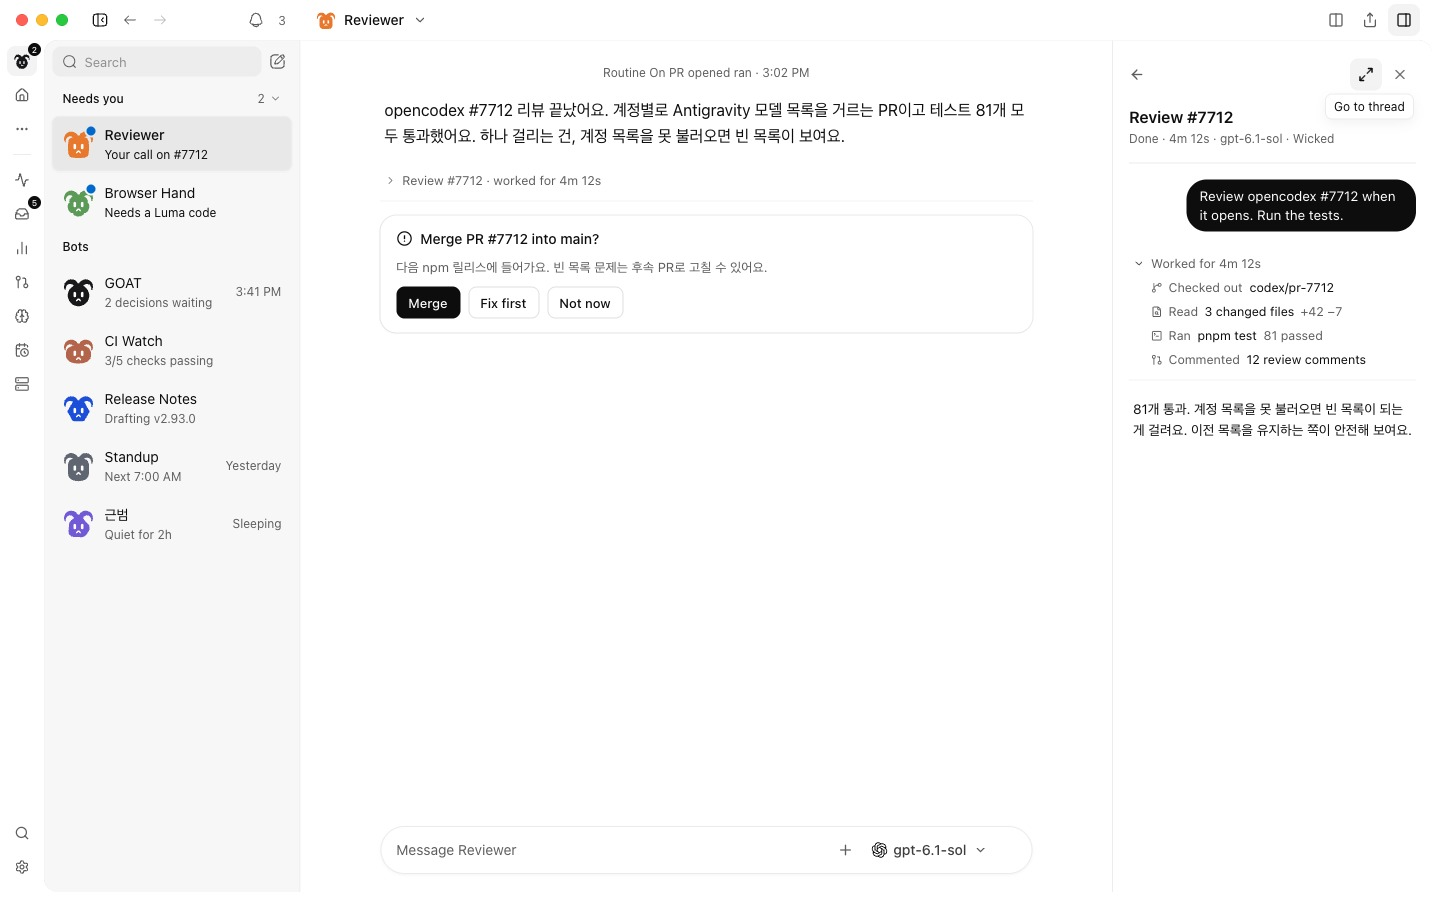
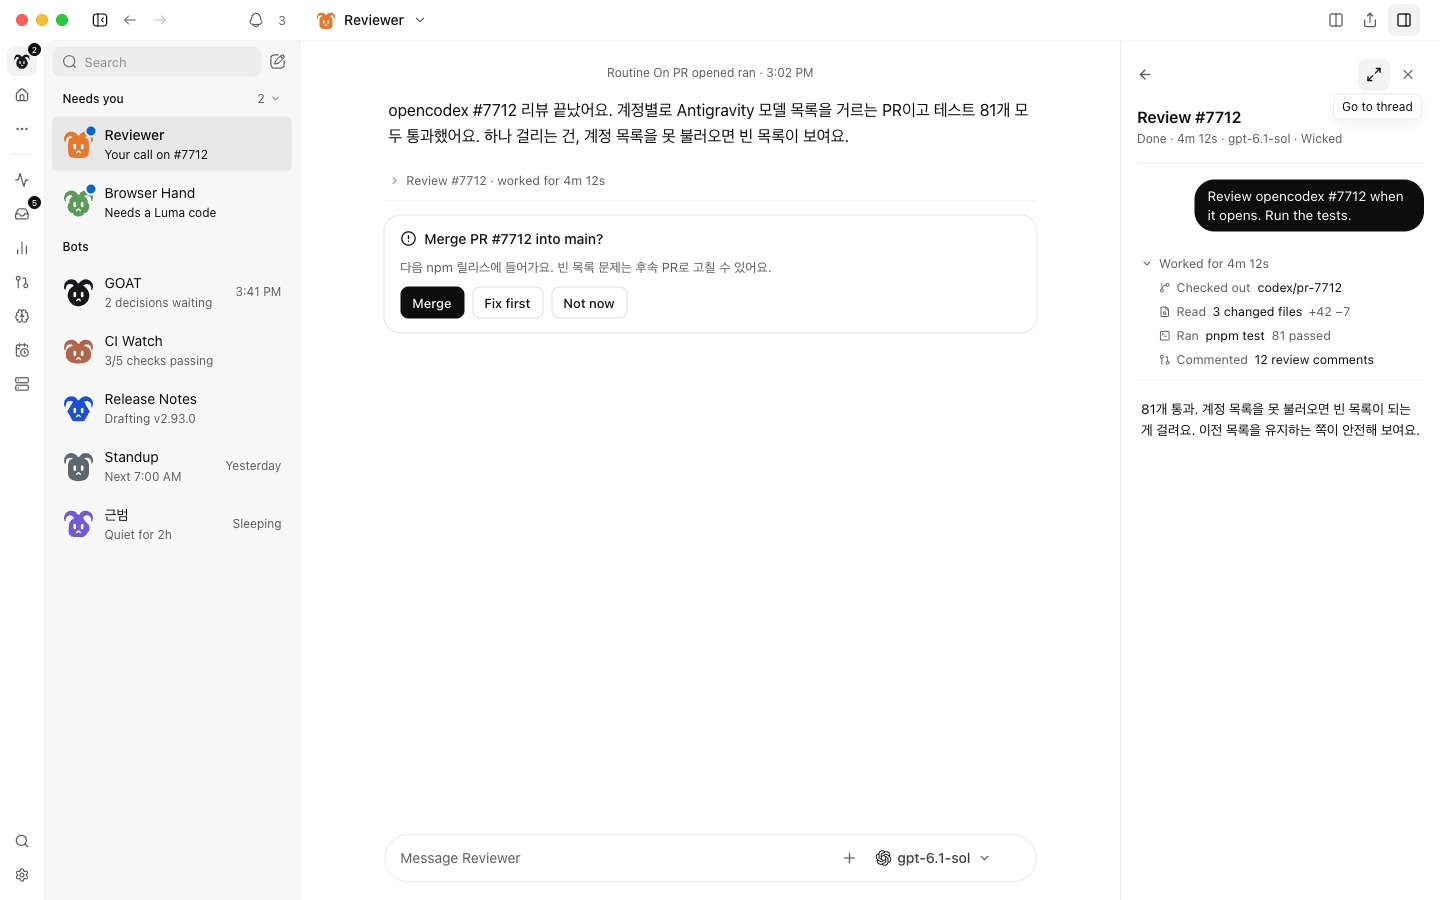
design: workspace flush to window bottom (no inset, top-left radius only); re-export bot home boards

diff --git a/design/paper/part1/1FKW-0.jsx b/design/paper/part1/1FKW-0.jsx
@@ -82,7 +82,7 @@
             </div>
           </div>
         </div>
-        <div style={{ boxSizing: 'border-box', display: 'flex', flexBasis: '0%', flexGrow: '1', minHeight: '0px', paddingBottom: '8px', paddingRight: '8px' }}>
+        <div style={{ boxSizing: 'border-box', display: 'flex', flexBasis: '0%', flexGrow: '1', minHeight: '0px' }}>
           <div style={{ alignItems: 'center', backgroundColor: '#FFFFFF', boxSizing: 'border-box', display: 'flex', flexDirection: 'column', flexShrink: '0', gap: '4px', overflow: 'visible', paddingBottom: '10px', paddingTop: '6px', width: '44px', zIndex: '3' }}>
             <div style={{ alignItems: 'center', backgroundColor: '#F3F3F3', borderRadius: '8px', boxSizing: 'border-box', display: 'flex', flexShrink: '0', height: '30px', justifyContent: 'center', position: 'relative', width: '30px' }}>
               <div style={{ boxSizing: 'border-box', flexShrink: '0', height: '17px', width: '17px' }}>
@@ -190,7 +190,7 @@
               </svg>
             </div>
           </div>
-          <div style={{ backgroundColor: '#FFFFFF', borderLeftColor: '#E2E2E2', borderLeftStyle: 'solid', borderLeftWidth: '0.5px', borderRadius: '14px', borderTopColor: '#E2E2E2', borderTopStyle: 'solid', borderTopWidth: '0.5px', boxSizing: 'border-box', display: 'flex', flexBasis: '0%', flexGrow: '1', minWidth: '0px', overflow: 'clip' }}>
+          <div style={{ backgroundColor: '#FFFFFF', borderLeftColor: '#E2E2E2', borderLeftStyle: 'solid', borderLeftWidth: '0.5px', borderTopColor: '#E2E2E2', borderTopLeftRadius: '14px', borderTopStyle: 'solid', borderTopWidth: '0.5px', boxSizing: 'border-box', display: 'flex', flexBasis: '0%', flexGrow: '1', minWidth: '0px', overflow: 'clip' }}>
             <div style={{ backgroundColor: '#F7F7F7', borderRightColor: '#ECECEC', borderRightStyle: 'solid', borderRightWidth: '1px', boxSizing: 'border-box', display: 'flex', flexDirection: 'column', flexShrink: '0', minWidth: '0px', overflow: 'clip', paddingInline: '8px', paddingTop: '6px', position: 'relative', width: '256px' }}>
               <div style={{ alignItems: 'center', boxSizing: 'border-box', display: 'flex', gap: '2px', paddingBottom: '6px' }}>
                 <div style={{ alignItems: 'center', backgroundColor: '#EDEDED', borderRadius: '8px', boxSizing: 'border-box', display: 'flex', flexBasis: '0%', flexGrow: '1', gap: '8px', height: '30px', paddingInline: '10px' }}>

diff --git a/design/paper/part1/1KL4-1.jsx b/design/paper/part1/1KL4-1.jsx
@@ -82,7 +82,7 @@
             </div>
           </div>
         </div>
-        <div style={{ boxSizing: 'border-box', display: 'flex', flexBasis: '0%', flexGrow: '1', minHeight: '0px', paddingBottom: '8px', paddingRight: '8px' }}>
+        <div style={{ boxSizing: 'border-box', display: 'flex', flexBasis: '0%', flexGrow: '1', minHeight: '0px' }}>
           <div style={{ alignItems: 'center', backgroundColor: '#FFFFFF', boxSizing: 'border-box', display: 'flex', flexDirection: 'column', flexShrink: '0', gap: '4px', overflow: 'visible', paddingBottom: '10px', paddingTop: '6px', width: '44px', zIndex: '3' }}>
             <div style={{ alignItems: 'center', backgroundColor: '#F3F3F3', borderRadius: '8px', boxSizing: 'border-box', display: 'flex', flexShrink: '0', height: '30px', justifyContent: 'center', position: 'relative', width: '30px' }}>
               <div style={{ boxSizing: 'border-box', flexShrink: '0', height: '17px', width: '17px' }}>
@@ -190,7 +190,7 @@
               </svg>
             </div>
           </div>
-          <div style={{ backgroundColor: '#FFFFFF', borderLeftColor: '#E2E2E2', borderLeftStyle: 'solid', borderLeftWidth: '0.5px', borderRadius: '14px', borderTopColor: '#E2E2E2', borderTopStyle: 'solid', borderTopWidth: '0.5px', boxSizing: 'border-box', display: 'flex', flexBasis: '0%', flexGrow: '1', minWidth: '0px', overflow: 'clip' }}>
+          <div style={{ backgroundColor: '#FFFFFF', borderLeftColor: '#E2E2E2', borderLeftStyle: 'solid', borderLeftWidth: '0.5px', borderTopColor: '#E2E2E2', borderTopLeftRadius: '14px', borderTopStyle: 'solid', borderTopWidth: '0.5px', boxSizing: 'border-box', display: 'flex', flexBasis: '0%', flexGrow: '1', minWidth: '0px', overflow: 'clip' }}>
             <div style={{ backgroundColor: '#F7F7F7', borderRightColor: '#ECECEC', borderRightStyle: 'solid', borderRightWidth: '1px', boxSizing: 'border-box', display: 'flex', flexDirection: 'column', flexShrink: '0', minWidth: '0px', overflow: 'clip', paddingInline: '8px', paddingTop: '6px', width: '256px' }}>
               <div style={{ alignItems: 'center', boxSizing: 'border-box', display: 'flex', gap: '2px', paddingBottom: '6px' }}>
                 <div style={{ alignItems: 'center', backgroundColor: '#EDEDED', borderRadius: '8px', boxSizing: 'border-box', display: 'flex', flexBasis: '0%', flexGrow: '1', gap: '8px', height: '30px', paddingInline: '10px' }}>

diff --git a/design/paper/part1/25D-0.jsx b/design/paper/part1/25D-0.jsx
@@ -82,7 +82,7 @@
             </div>
           </div>
         </div>
-        <div style={{ boxSizing: 'border-box', display: 'flex', flexBasis: '0%', flexGrow: '1', minHeight: '0px', paddingBottom: '8px', paddingRight: '8px' }}>
+        <div style={{ boxSizing: 'border-box', display: 'flex', flexBasis: '0%', flexGrow: '1', minHeight: '0px' }}>
           <div style={{ alignItems: 'center', backgroundColor: '#FFFFFF', boxSizing: 'border-box', display: 'flex', flexDirection: 'column', flexShrink: '0', gap: '4px', overflow: 'visible', paddingBottom: '10px', paddingTop: '6px', width: '44px', zIndex: '3' }}>
             <div style={{ alignItems: 'center', backgroundColor: '#F3F3F3', borderRadius: '8px', boxSizing: 'border-box', display: 'flex', flexShrink: '0', height: '30px', justifyContent: 'center', position: 'relative', width: '30px' }}>
               <div style={{ boxSizing: 'border-box', flexShrink: '0', height: '17px', width: '17px' }}>
@@ -190,7 +190,7 @@
               </svg>
             </div>
           </div>
-          <div style={{ backgroundColor: '#FFFFFF', borderLeftColor: '#E2E2E2', borderLeftStyle: 'solid', borderLeftWidth: '0.5px', borderRadius: '14px', borderTopColor: '#E2E2E2', borderTopStyle: 'solid', borderTopWidth: '0.5px', boxSizing: 'border-box', display: 'flex', flexBasis: '0%', flexGrow: '1', minWidth: '0px', overflow: 'clip' }}>
+          <div style={{ backgroundColor: '#FFFFFF', borderLeftColor: '#E2E2E2', borderLeftStyle: 'solid', borderLeftWidth: '0.5px', borderTopColor: '#E2E2E2', borderTopLeftRadius: '14px', borderTopStyle: 'solid', borderTopWidth: '0.5px', boxSizing: 'border-box', display: 'flex', flexBasis: '0%', flexGrow: '1', minWidth: '0px', overflow: 'clip' }}>
             <div style={{ backgroundColor: '#F7F7F7', borderRightColor: '#ECECEC', borderRightStyle: 'solid', borderRightWidth: '1px', boxSizing: 'border-box', display: 'flex', flexDirection: 'column', flexShrink: '0', minWidth: '0px', overflow: 'clip', paddingInline: '8px', paddingTop: '6px', width: '256px' }}>
               <div style={{ alignItems: 'center', boxSizing: 'border-box', display: 'flex', gap: '2px', paddingBottom: '6px' }}>
                 <div style={{ alignItems: 'center', backgroundColor: '#EDEDED', borderRadius: '8px', boxSizing: 'border-box', display: 'flex', flexBasis: '0%', flexGrow: '1', gap: '8px', height: '30px', paddingInline: '10px' }}>

diff --git a/design/paper/part1/2R-1.jsx b/design/paper/part1/2R-1.jsx
@@ -87,7 +87,7 @@
             </div>
           </div>
         </div>
-        <div style={{ boxSizing: 'border-box', display: 'flex', flexBasis: '0%', flexGrow: '1', minHeight: '0px', paddingBottom: '8px', paddingRight: '8px' }}>
+        <div style={{ boxSizing: 'border-box', display: 'flex', flexBasis: '0%', flexGrow: '1', minHeight: '0px' }}>
           <div style={{ alignItems: 'center', backgroundColor: '#FFFFFF', boxSizing: 'border-box', display: 'flex', flexDirection: 'column', flexShrink: '0', gap: '4px', overflow: 'visible', paddingBottom: '10px', paddingTop: '6px', width: '44px', zIndex: '3' }}>
             <div style={{ alignItems: 'center', backgroundColor: '#F3F3F3', borderRadius: '8px', boxSizing: 'border-box', display: 'flex', flexShrink: '0', height: '30px', justifyContent: 'center', position: 'relative', width: '30px' }}>
               <div style={{ boxSizing: 'border-box', flexShrink: '0', height: '17px', width: '17px' }}>
@@ -200,7 +200,7 @@
               </svg>
             </div>
           </div>
-          <div style={{ backgroundColor: '#FFFFFF', borderLeftColor: '#E2E2E2', borderLeftStyle: 'solid', borderLeftWidth: '0.5px', borderRadius: '14px', borderTopColor: '#E2E2E2', borderTopStyle: 'solid', borderTopWidth: '0.5px', boxSizing: 'border-box', display: 'flex', flexBasis: '0%', flexGrow: '1', minWidth: '0px', overflow: 'clip' }}>
+          <div style={{ backgroundColor: '#FFFFFF', borderLeftColor: '#E2E2E2', borderLeftStyle: 'solid', borderLeftWidth: '0.5px', borderTopColor: '#E2E2E2', borderTopLeftRadius: '14px', borderTopStyle: 'solid', borderTopWidth: '0.5px', boxSizing: 'border-box', display: 'flex', flexBasis: '0%', flexGrow: '1', minWidth: '0px', overflow: 'clip' }}>
             <div style={{ backgroundColor: '#F7F7F7', borderRightColor: '#ECECEC', borderRightStyle: 'solid', borderRightWidth: '1px', boxSizing: 'border-box', display: 'flex', flexDirection: 'column', flexShrink: '0', minWidth: '0px', overflow: 'clip', paddingInline: '8px', paddingTop: '6px', width: '256px' }}>
               <div style={{ alignItems: 'center', boxSizing: 'border-box', display: 'flex', gap: '2px', paddingBottom: '6px' }}>
                 <div style={{ alignItems: 'center', backgroundColor: '#EDEDED', borderRadius: '8px', boxSizing: 'border-box', display: 'flex', flexBasis: '0%', flexGrow: '1', gap: '8px', height: '30px', paddingInline: '10px' }}>

diff --git a/design/paper/part1/U8-1.jsx b/design/paper/part1/U8-1.jsx
@@ -82,7 +82,7 @@
             </div>
           </div>
         </div>
-        <div style={{ boxSizing: 'border-box', display: 'flex', flexBasis: '0%', flexGrow: '1', minHeight: '0px', paddingBottom: '8px', paddingRight: '8px' }}>
+        <div style={{ boxSizing: 'border-box', display: 'flex', flexBasis: '0%', flexGrow: '1', minHeight: '0px' }}>
           <div style={{ alignItems: 'center', backgroundColor: '#FFFFFF', boxSizing: 'border-box', display: 'flex', flexDirection: 'column', flexShrink: '0', gap: '4px', overflow: 'visible', paddingBottom: '10px', paddingTop: '6px', width: '44px', zIndex: '3' }}>
             <div style={{ alignItems: 'center', backgroundColor: '#F3F3F3', borderRadius: '8px', boxSizing: 'border-box', display: 'flex', flexShrink: '0', height: '30px', justifyContent: 'center', position: 'relative', width: '30px' }}>
               <div style={{ boxSizing: 'border-box', flexShrink: '0', height: '17px', width: '17px' }}>
@@ -190,7 +190,7 @@
               </svg>
             </div>
           </div>
-          <div style={{ backgroundColor: '#FFFFFF', borderLeftColor: '#E2E2E2', borderLeftStyle: 'solid', borderLeftWidth: '0.5px', borderRadius: '14px', borderTopColor: '#E2E2E2', borderTopStyle: 'solid', borderTopWidth: '0.5px', boxSizing: 'border-box', display: 'flex', flexBasis: '0%', flexGrow: '1', minWidth: '0px', overflow: 'clip' }}>
+          <div style={{ backgroundColor: '#FFFFFF', borderLeftColor: '#E2E2E2', borderLeftStyle: 'solid', borderLeftWidth: '0.5px', borderTopColor: '#E2E2E2', borderTopLeftRadius: '14px', borderTopStyle: 'solid', borderTopWidth: '0.5px', boxSizing: 'border-box', display: 'flex', flexBasis: '0%', flexGrow: '1', minWidth: '0px', overflow: 'clip' }}>
             <div style={{ backgroundColor: '#F7F7F7', borderRightColor: '#ECECEC', borderRightStyle: 'solid', borderRightWidth: '1px', boxSizing: 'border-box', display: 'flex', flexDirection: 'column', flexShrink: '0', minWidth: '0px', overflow: 'clip', paddingInline: '8px', paddingTop: '6px', width: '256px' }}>
               <div style={{ alignItems: 'center', boxSizing: 'border-box', display: 'flex', gap: '2px', paddingBottom: '6px' }}>
                 <div style={{ alignItems: 'center', backgroundColor: '#EDEDED', borderRadius: '8px', boxSizing: 'border-box', display: 'flex', flexBasis: '0%', flexGrow: '1', gap: '8px', height: '30px', paddingInline: '10px' }}>

diff --git a/design/paper/part1/12P-1.jsx b/design/paper/part1/12P-1.jsx
@@ -82,7 +82,7 @@
             </div>
           </div>
         </div>
-        <div style={{ boxSizing: 'border-box', display: 'flex', flexBasis: '0%', flexGrow: '1', minHeight: '0px', paddingBottom: '8px', paddingRight: '8px' }}>
+        <div style={{ boxSizing: 'border-box', display: 'flex', flexBasis: '0%', flexGrow: '1', minHeight: '0px' }}>
           <div style={{ alignItems: 'center', backgroundColor: '#FFFFFF', boxSizing: 'border-box', display: 'flex', flexDirection: 'column', flexShrink: '0', gap: '4px', overflow: 'visible', paddingBottom: '10px', paddingTop: '6px', width: '44px', zIndex: '3' }}>
             <div style={{ alignItems: 'center', backgroundColor: '#F3F3F3', borderRadius: '8px', boxSizing: 'border-box', display: 'flex', flexShrink: '0', height: '30px', justifyContent: 'center', width: '30px' }}>
               <div style={{ boxSizing: 'border-box', flexShrink: '0', height: '17px', width: '17px' }}>
@@ -185,7 +185,7 @@
               </svg>
             </div>
           </div>
-          <div style={{ backgroundColor: '#FFFFFF', borderLeftColor: '#E2E2E2', borderLeftStyle: 'solid', borderLeftWidth: '0.5px', borderRadius: '14px', borderTopColor: '#E2E2E2', borderTopStyle: 'solid', borderTopWidth: '0.5px', boxSizing: 'border-box', display: 'flex', flexBasis: '0%', flexGrow: '1', minWidth: '0px', overflow: 'clip' }}>
+          <div style={{ backgroundColor: '#FFFFFF', borderLeftColor: '#E2E2E2', borderLeftStyle: 'solid', borderLeftWidth: '0.5px', borderTopColor: '#E2E2E2', borderTopLeftRadius: '14px', borderTopStyle: 'solid', borderTopWidth: '0.5px', boxSizing: 'border-box', display: 'flex', flexBasis: '0%', flexGrow: '1', minWidth: '0px', overflow: 'clip' }}>
             <div style={{ backgroundColor: '#F7F7F7', borderRightColor: '#ECECEC', borderRightStyle: 'solid', borderRightWidth: '1px', boxSizing: 'border-box', display: 'flex', flexDirection: 'column', flexShrink: '0', minWidth: '0px', overflow: 'clip', paddingInline: '8px', paddingTop: '6px', width: '256px' }}>
               <div style={{ alignItems: 'center', boxSizing: 'border-box', display: 'flex', gap: '2px', paddingBottom: '6px' }}>
                 <div style={{ alignItems: 'center', backgroundColor: '#EDEDED', borderRadius: '8px', boxSizing: 'border-box', display: 'flex', flexBasis: '0%', flexGrow: '1', gap: '8px', height: '30px', paddingInline: '10px' }}>

diff --git a/design/paper/part1/FF-1.jsx b/design/paper/part1/FF-1.jsx
@@ -65,7 +65,7 @@
             </div>
           </div>
         </div>
-        <div style={{ boxSizing: 'border-box', display: 'flex', flexBasis: '0%', flexGrow: '1', minHeight: '0px', paddingBottom: '8px', paddingRight: '8px' }}>
+        <div style={{ boxSizing: 'border-box', display: 'flex', flexBasis: '0%', flexGrow: '1', minHeight: '0px' }}>
           <div style={{ alignItems: 'center', backgroundColor: '#FFFFFF', boxSizing: 'border-box', display: 'flex', flexDirection: 'column', flexShrink: '0', gap: '4px', overflow: 'visible', paddingBottom: '10px', paddingTop: '6px', width: '44px', zIndex: '3' }}>
             <div style={{ alignItems: 'center', backgroundColor: '#F3F3F3', borderRadius: '8px', boxSizing: 'border-box', display: 'flex', flexShrink: '0', height: '30px', justifyContent: 'center', position: 'relative', width: '30px' }}>
               <div style={{ boxSizing: 'border-box', flexShrink: '0', height: '17px', width: '17px' }}>
@@ -173,7 +173,7 @@
               </svg>
             </div>
           </div>
-          <div style={{ backgroundColor: '#FFFFFF', borderLeftColor: '#E2E2E2', borderLeftStyle: 'solid', borderLeftWidth: '0.5px', borderRadius: '14px', borderTopColor: '#E2E2E2', borderTopStyle: 'solid', borderTopWidth: '0.5px', boxSizing: 'border-box', display: 'flex', flexBasis: '0%', flexGrow: '1', minWidth: '0px', overflow: 'clip' }}>
+          <div style={{ backgroundColor: '#FFFFFF', borderLeftColor: '#E2E2E2', borderLeftStyle: 'solid', borderLeftWidth: '0.5px', borderTopColor: '#E2E2E2', borderTopLeftRadius: '14px', borderTopStyle: 'solid', borderTopWidth: '0.5px', boxSizing: 'border-box', display: 'flex', flexBasis: '0%', flexGrow: '1', minWidth: '0px', overflow: 'clip' }}>
             <div style={{ backgroundColor: '#FFFFFF', boxSizing: 'border-box', display: 'flex', flexBasis: '0%', flexDirection: 'column', flexGrow: '1', minWidth: '0px' }}>
               <div style={{ boxSizing: 'border-box', display: 'flex', flexBasis: '0%', flexGrow: '1', minHeight: '0px' }}>
                 <div style={{ alignItems: 'center', boxSizing: 'border-box', display: 'flex', flexBasis: '0%', flexDirection: 'column', flexGrow: '1', minWidth: '0px', overflow: 'clip' }}>

diff --git a/design/paper/part1/README.md b/design/paper/part1/README.md
@@ -44,3 +44,8 @@ code-derived spec of v1 `origin/dev` 916b5ccc (`components/Sidebar.tsx` Activity
 (40px top bar, 44px rail) and the Updating line are GOAT 2. v1 keeps its own colours inside the timeline and composer
 (diff +/- counts, Full access chip, stop button); the "Approval" label is GOAT 2 blue. When code and board differ on a
 v1 component, v1 code wins.
+
+**Workspace reaches the window bottom (owner, 2026-11-28 ~22:35 KST).** The sidebar and main pane run flush to the
+bottom and right edges of the window: no 8px bottom/right inset, only the top-left corner of the workspace is rounded
+(like v1's `workspace-content-frame`: border top + left, `rounded-tl`). All desktop boards were changed and the bot home
+boards re-exported.

diff --git a/docs/DECISIONS.md b/docs/DECISIONS.md
@@ -87,3 +87,4 @@ Newest at the bottom.
   types, algorithms, copy, icons, tokens, tests) is carried over; new code only where v1 has nothing usable or a
   GOAT 2 decision differs. Agents must read v1 source (`~/Developer/goat` `origin/dev`), never screenshots or
   memory, and record every lift in `docs/PROVENANCE.md`. Applies to code and to Paper boards.
+- **Workspace flush to the window bottom.** No bottom/right inset around the workspace; only its top-left corner is rounded (v1 workspace-content-frame). Paper boards fixed 2026-11-28.
